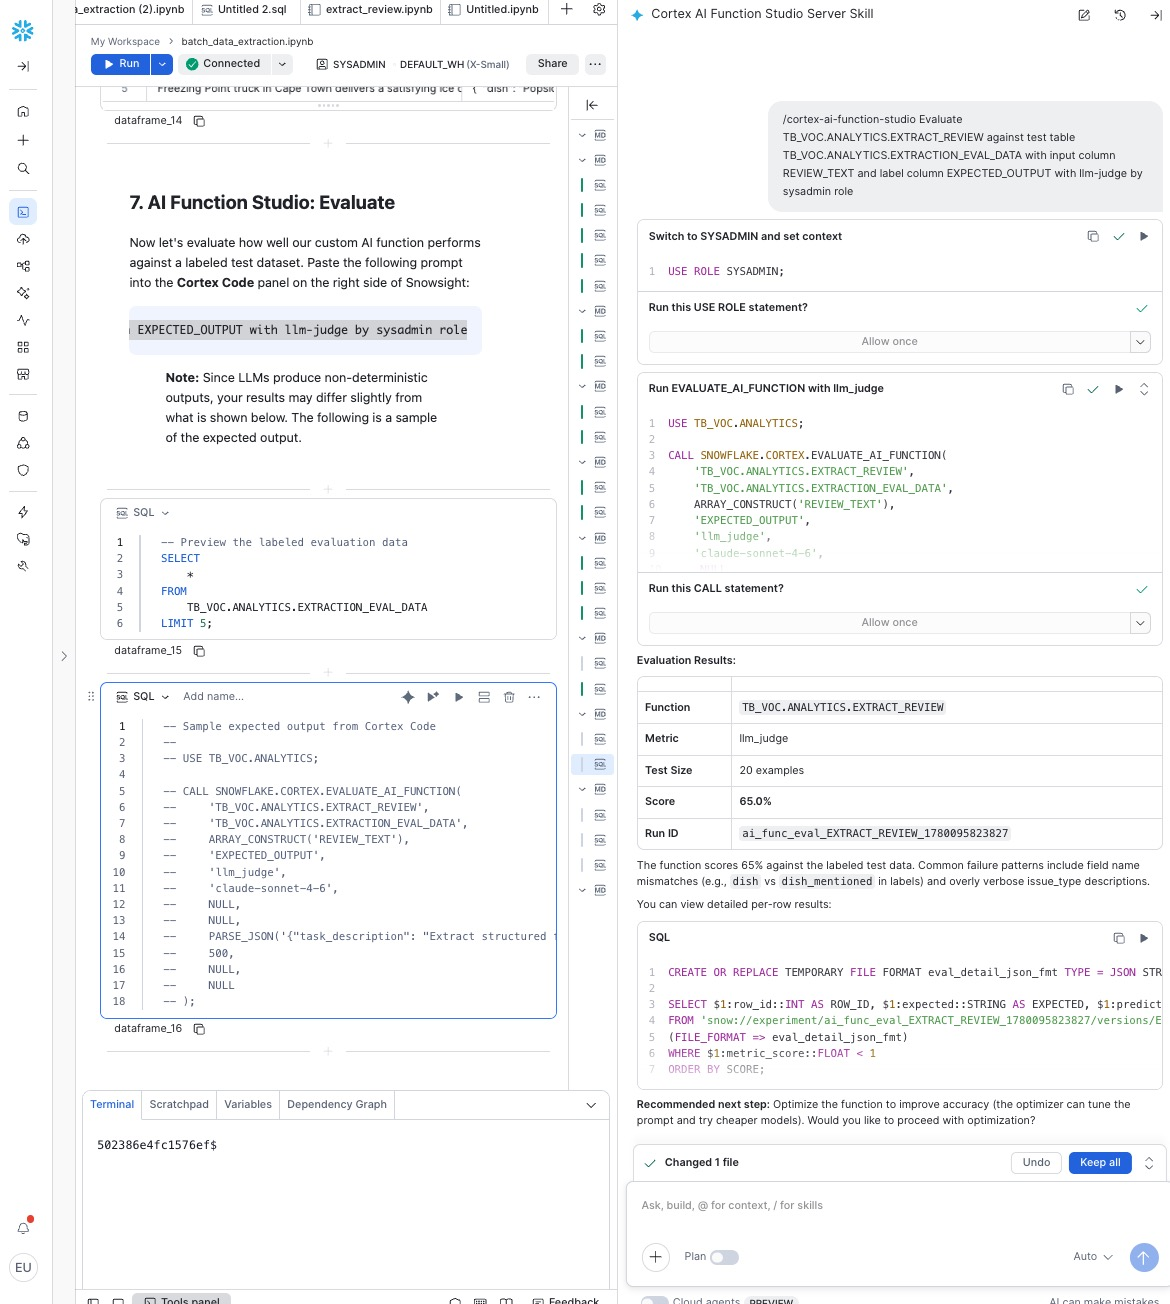
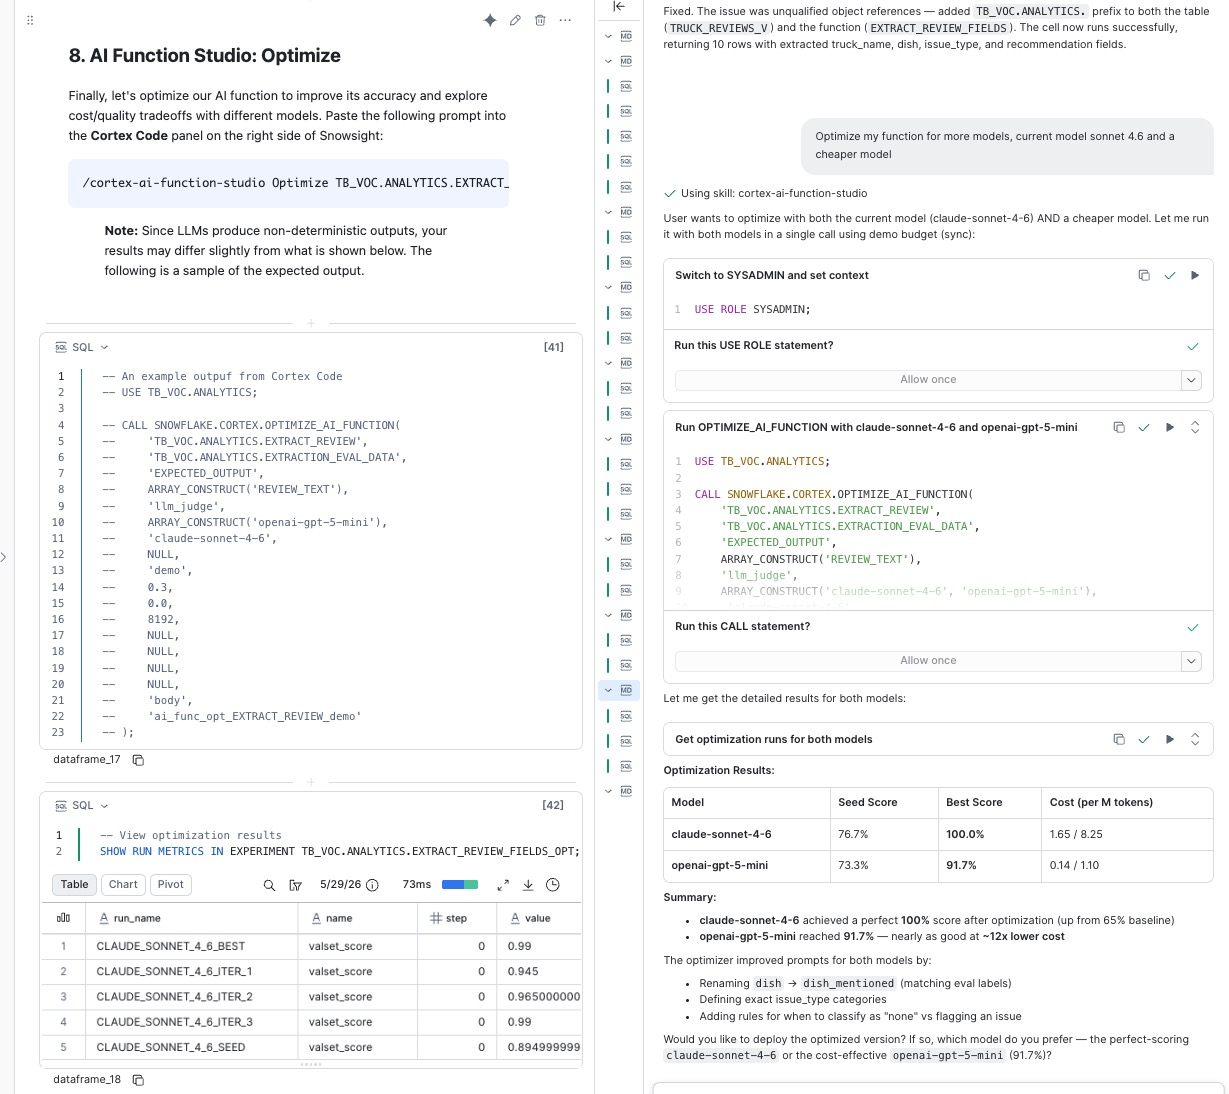
Fix wrong fig and updates file path in md

diff --git a/site/sfguides/src/gain-insights-from-unstructured-data/gain-insights-from-unstructured-data.md b/site/sfguides/src/gain-insights-from-unstructured-data/gain-insights-from-unstructured-data.md
@@ -567,7 +567,7 @@ CALL SNOWFLAKE.CORTEX.CREATE_AI_FUNCTION(
 
 Example output from the AI Function Studio CREATE workflow in Cortex Code:
 
-![AI Function Studio Create Function](assets/ai_function_studio_create_function.jpg)
+![AI Function Studio Create Function](assets/create_ai_function_studio.jpg)
 
 ### Test the Function
 
@@ -640,7 +640,7 @@ CALL SNOWFLAKE.CORTEX.EVALUATE_AI_FUNCTION(
 
 Example output from the AI Function Studio EVALUATE workflow in Cortex Code:
 
-![AI Function Studio Evaluate Function](assets/ai_function_studio_evaluate_function.jpg)
+![AI Function Studio Evaluate Function](assets/evaluate_ai_function_studio.jpg)
 
 The evaluation returns an overall score between 0.0 and 1.0. A score above 0.8 indicates good extraction quality. If the score is lower, the optimize step can help improve it.
 
@@ -748,7 +748,7 @@ Cortex Code will add candidate models to the optimization, run them concurrently
 
 Example output from the multi-model optimization workflow in Cortex Code:
 
-![AI Function Studio Multi-Model Optimization](assets/ai_function_studio_multi_model_optimization.jpg)
+![AI Function Studio Multi-Model Optimization](assets/optimize_cost_ai_function_studio.jpg)
 
 ### Resources
 